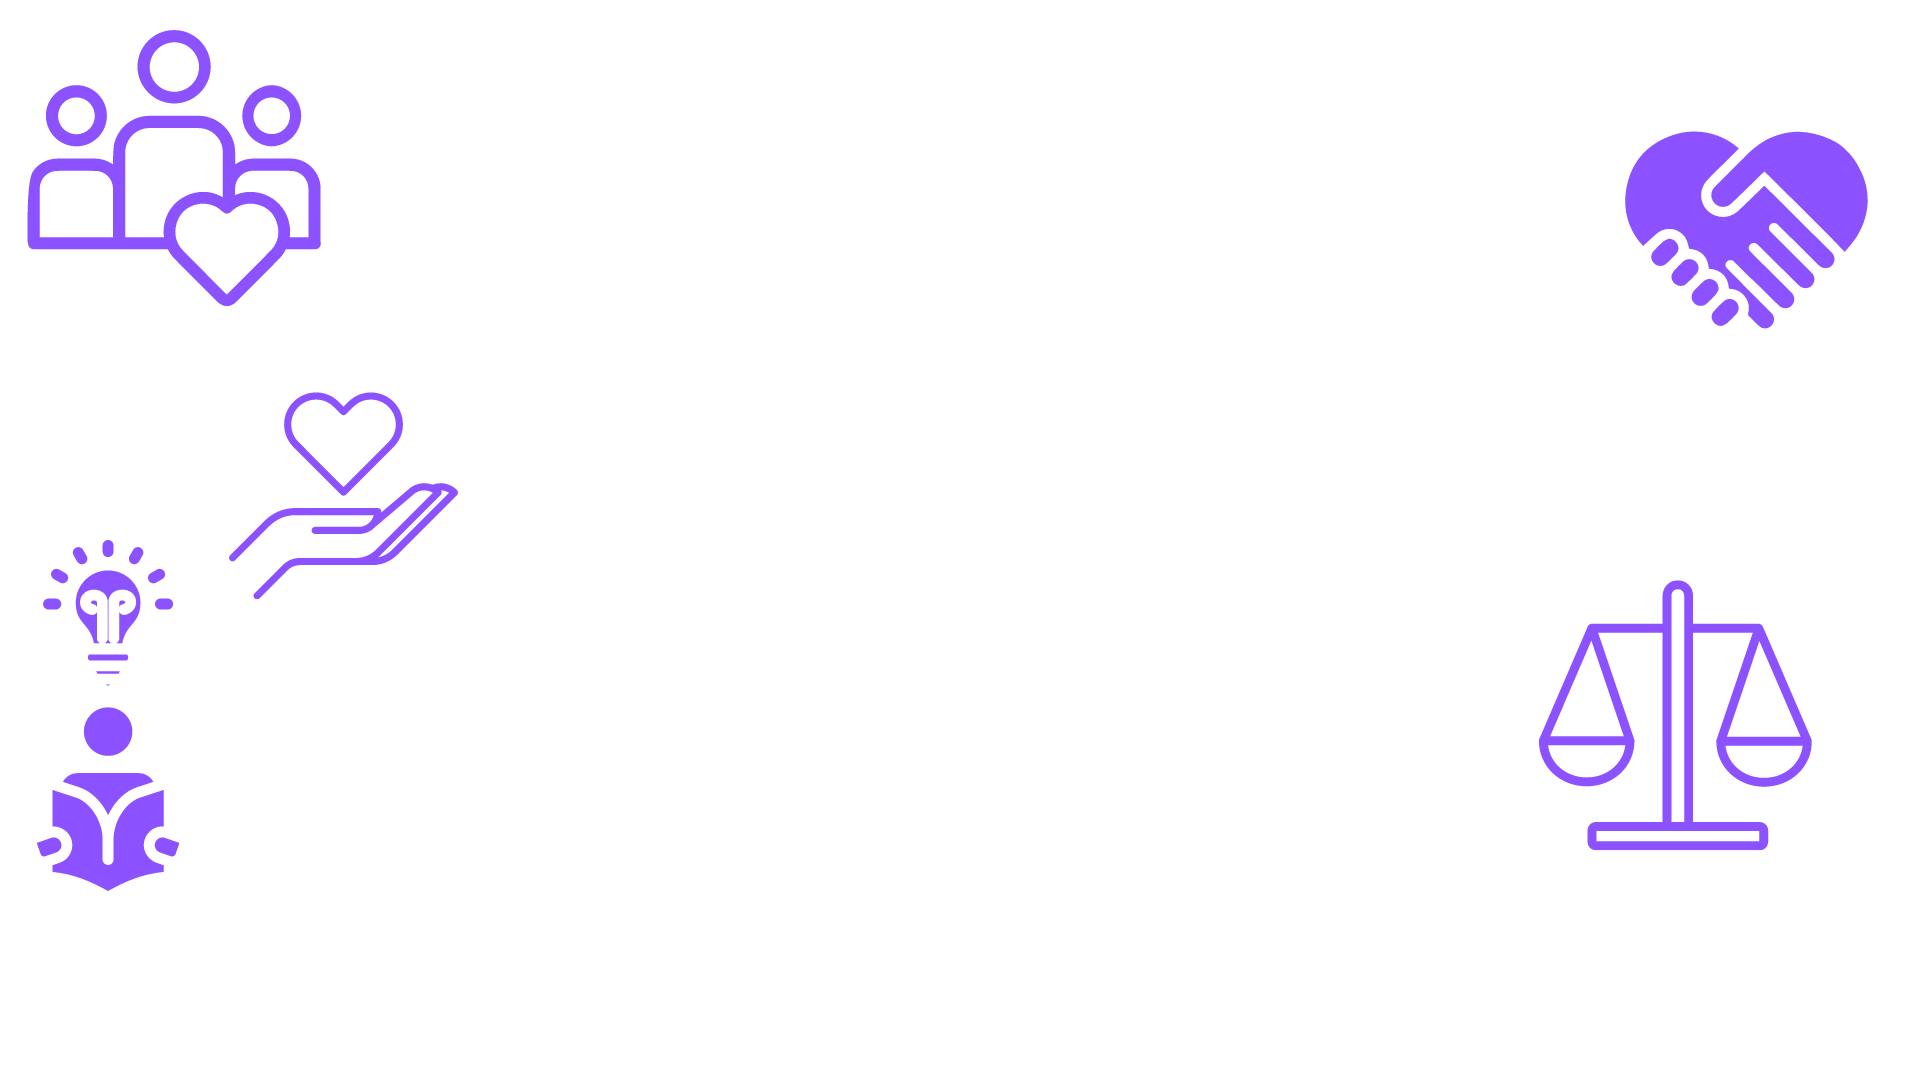
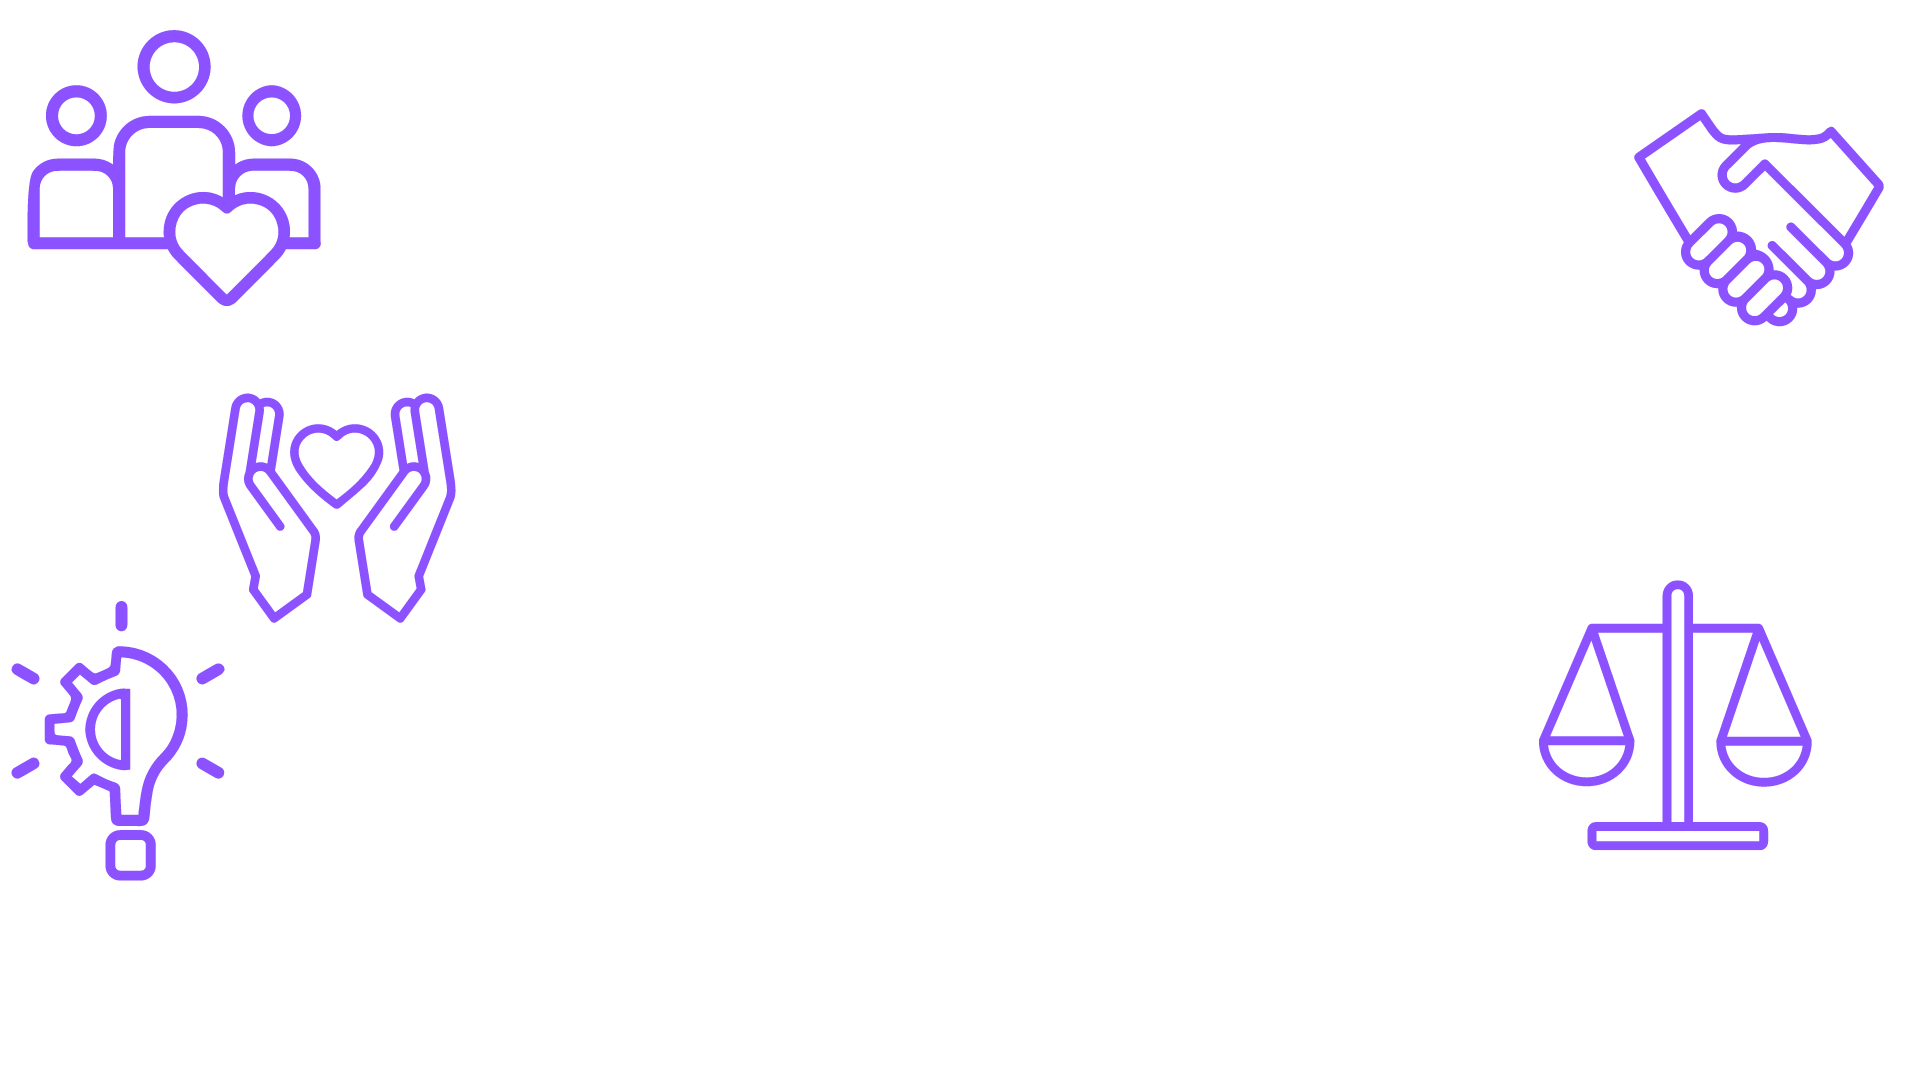
Site: Corrigindo imagens no fundo da home

Changed region(s): [[0.0938, 0.3667, 0.25, 0.5806], [0.0, 0.4889, 0.125, 0.825], [0.8438, 0.0917, 1.0, 0.3056]]

diff --git a/Site-AstronoMy/StyleAstronoMy.css b/Site-AstronoMy/StyleAstronoMy.css
@@ -88,11 +88,11 @@
     font-size: 70px;
 }
 
-.home .banner label{
-margin-left: 2%;
+.home .banner label {
+    margin-left: 2%;
 }
 
-.home .banner .destaque{
+.home .banner .destaque {
     color: #6F8DC8;
     font-weight: bold;
 }
@@ -110,6 +110,12 @@ margin-left: 2%;
     font-weight: bold;
     font-family: sans-serif;
     color: #4d2b6d;
+}
+
+.home .fundoSobre {
+    background-image: url(img/Sobre.png);
+    background-repeat: no-repeat;
+    background-size: 100%;
 }
 
 .home .sobre {
@@ -146,7 +152,7 @@ margin-left: 2%;
     text-align: center;
 }
 
-.home .fundoValores{
+.home .fundoValores {
     background-image: url(img/Valores.png);
     background-repeat: no-repeat;
     background-size: 100%;
@@ -180,7 +186,7 @@ margin-left: 2%;
     margin-top: 1%;
 }
 
-.home .valores label{
+.home .valores label {
     text-align: center;
     font-size: 28px;
     padding-top: 2%;
@@ -213,7 +219,7 @@ margin-left: 2%;
     background-size: 100%;
 }
 
-.cadastro .titulo{
+.cadastro .titulo {
     color: #bbabe8;
     margin: 0px;
     margin-left: 33%;
@@ -274,7 +280,7 @@ margin-left: 2%;
 }
 
 .cadastro .container input ::-webkit-outer-spin-button,
-input::-webkit-inner-spin-button{
+input::-webkit-inner-spin-button {
     -webkit-appearance: none;
 }
 
@@ -317,7 +323,7 @@ input::-webkit-inner-spin-button{
     background-size: 100%;
 }
 
-.login .titulo{
+.login .titulo {
     color: #bbabe8;
     margin: 0px;
     margin-left: 40%;

diff --git a/Site-AstronoMy/HomeAstronoMy.html b/Site-AstronoMy/HomeAstronoMy.html
@@ -30,6 +30,7 @@
     </div>
 
     <!-- Sobre o Projeto -->
+    <div class="fundoSobre">
     <label class="titulo">O QUE É ASTRONO<i class="nome">MY</i>?</label>
     <div class="sobre">
         <div class="cartao">
@@ -53,6 +54,7 @@
                 todos merecemos as mesmas oportunidades </span>
         </div>
     </div>
+</div>
 
     <!-- Valores -->
     <div class="fundoValores">
